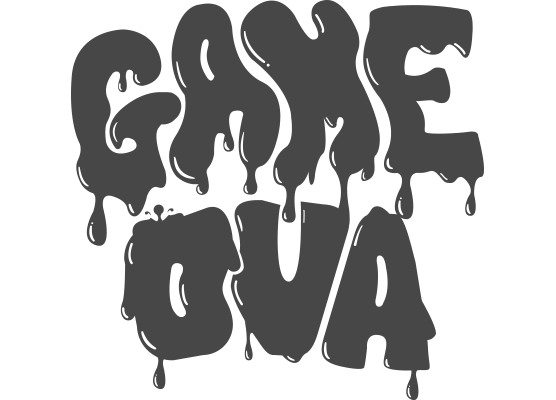
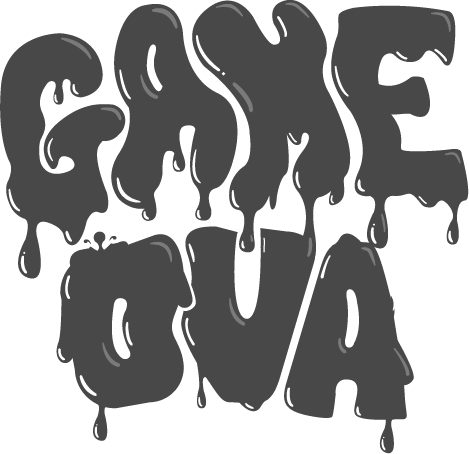
Replace game over, ground2, and title assets

diff --git a/assets/stylesheet.css b/assets/stylesheet.css
@@ -33,24 +33,22 @@ img {
 .container-img {
   position: absolute;
   width: 400px;
-  bottom: 75px;
-  left: 187px;
+  bottom: 9px;
+  left: 163px;
   display: none;
 }
 
 .intro-screen {
   position: absolute;
-  top: 8px;
-  width: 400px;
-  /*bottom: 45px;*/
-  left: 198px;
-  /*display: none;*/
+  width: 595px;
+  left: 12.8125%;
+  top: 1px;
 }
 
 .replay {
   position: absolute;
   bottom: 155px;
-  left: 87px;
+  left: 55px;
   width: 75px;
   display: none;
 }
@@ -134,8 +132,8 @@ img {
 .score-section {
   width: 185px;
   position: absolute;
-  top: 90px;
-  right: 45px;
+  top: 105px;
+  right: 25px;
   display: none;
 }
 

diff --git a/lib/src/view.js b/lib/src/view.js
@@ -16,7 +16,7 @@
 
   View.prototype.renderIntroScreen = function() {
     // var canvas = document.getElementById("canvas");
-    this.canvas.style.opacity = 0.5;
+    this.canvas.style.opacity = 0.25;
     // var img = new Image();
     // img.onload = function() {
     //   var canvas = document.getElementById("canvas");
